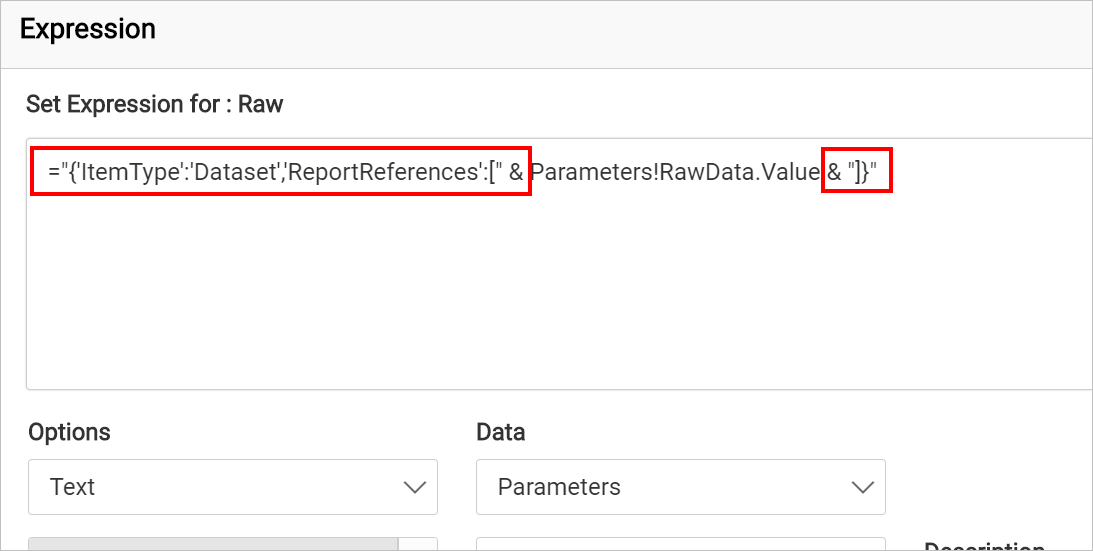
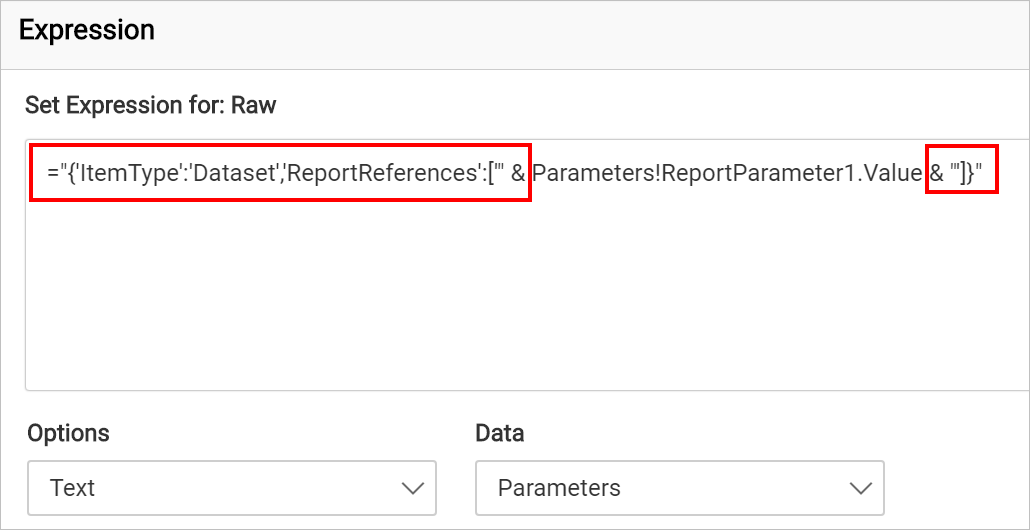
documentation(REPORT-6306): Resolved syntax issue in web api data source.

diff --git a/docs/designer-guide/report-designer/manage-data/data-connectors/rest-api-data-source.md b/docs/designer-guide/report-designer/manage-data/data-connectors/rest-api-data-source.md
@@ -223,9 +223,18 @@ The above action will post the information into specified REST API URL and take 
 **Syntax 1** :
    When passing data as JSON object, it should be enclosed with in double quotes, the key/value strings should be enclosed within single quotes. Otherwise it can follow any syntax which supports the Client-Server transaction.
 
+   ```json
+
+   = "{'ItemType':'Dataset','ReportReferences':['3fe0ea1c-b6a1-4b20-95dd-158edd24ae4b']}"
+   ```
+
    ![Enter expression](/static/assets/on-premise/images/report-designer/manage-data/web-data-source/raw-syntax-1.png)
 
 **Syntax 2** :  To use the Parameters, Data fields, or Variables along with Json object, follow the below syntax.
+
+   ```json
+   ="{'ItemType':'Dataset','ReportReferences':['" & Parameters!ReportParameter1.Value & "']}"
+   ```
 
    ![Enter expression](/static/assets/on-premise/images/report-designer/manage-data/web-data-source/syntax-raw-2.png)
 
